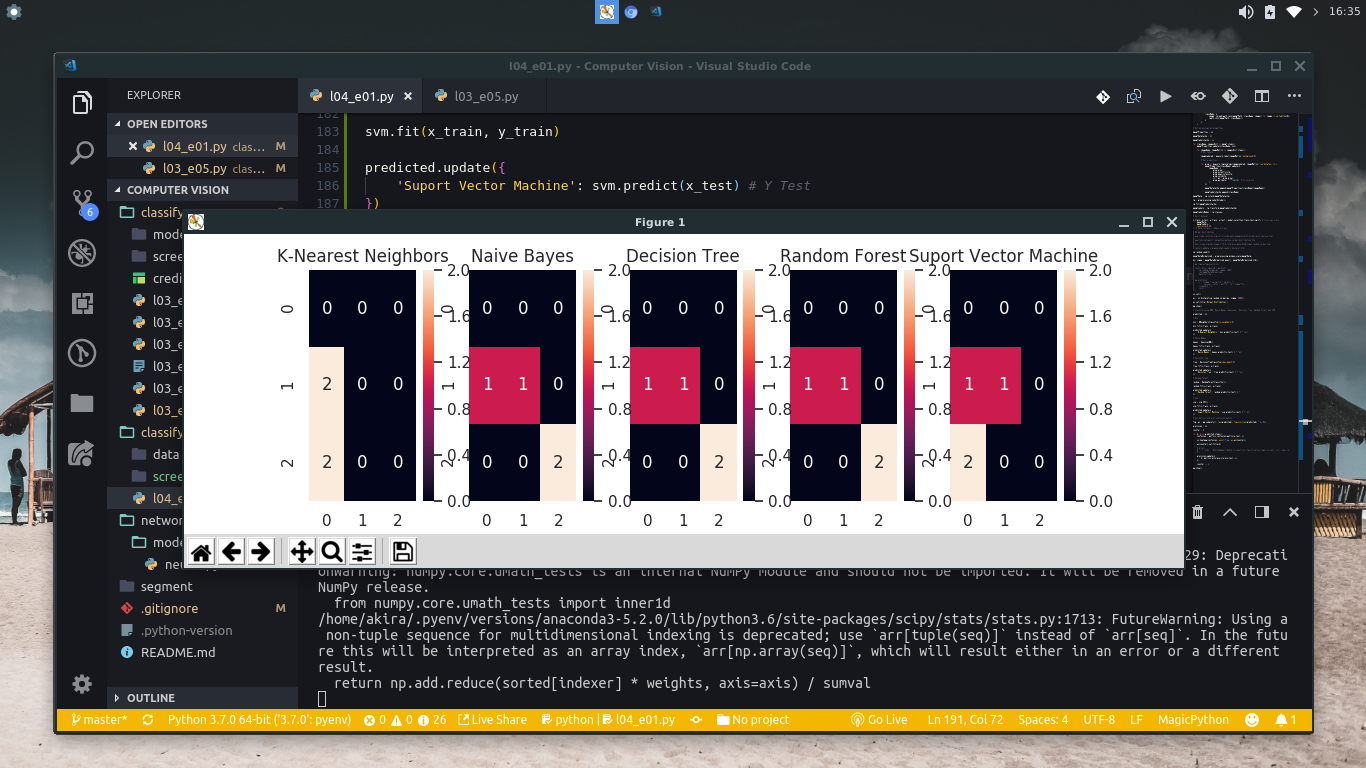
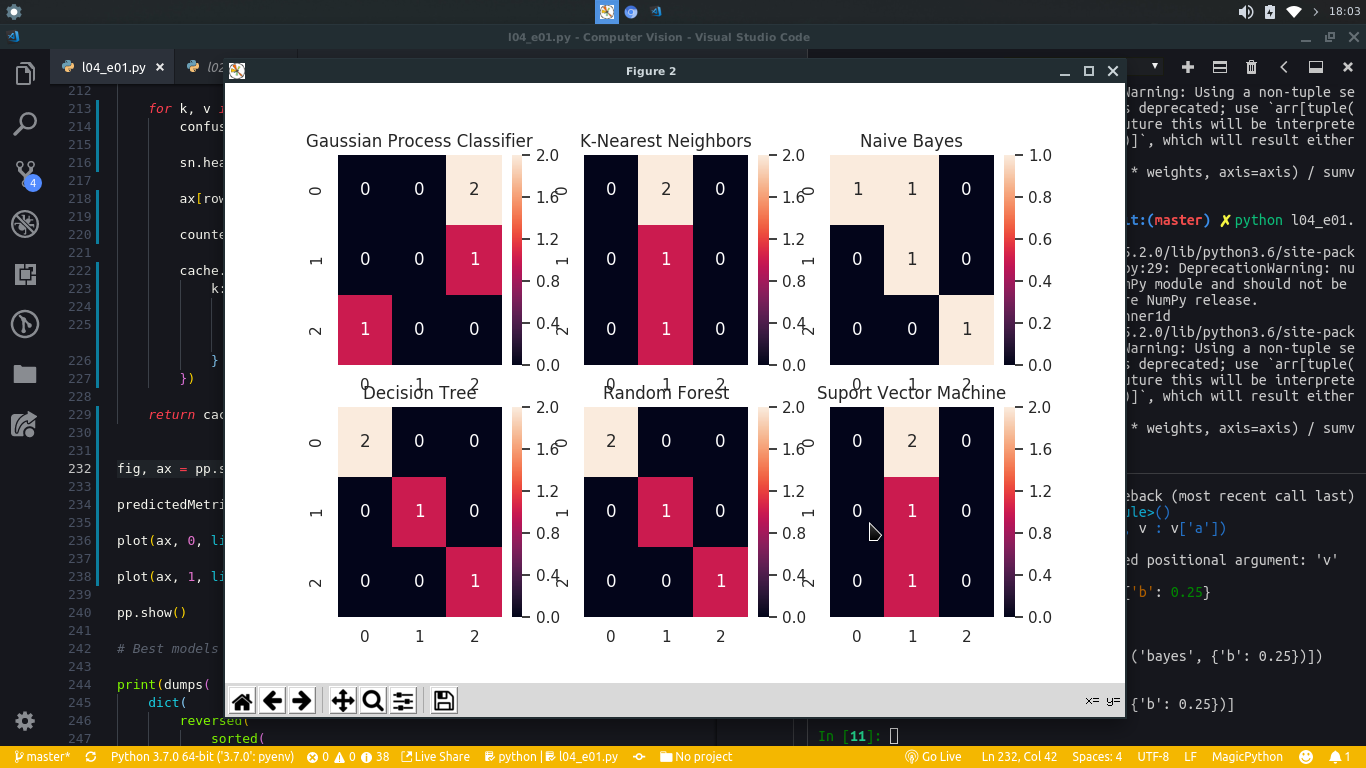
Save dataset and plot in different lines

diff --git a/classify_images/l04_e01.py b/classify_images/l04_e01.py
@@ -26,6 +26,10 @@ from sklearn.tree import DecisionTreeClassifier
 
 from sklearn.ensemble import RandomForestClassifier
 
+from sklearn.gaussian_process import GaussianProcessClassifier
+
+from sklearn.gaussian_process.kernels import RBF
+
 from json import dumps
 
 # Load M Peg 7
@@ -68,8 +72,7 @@ for className, imagesDict in mpeg7.items():
                     prop.eccentricity,
                     prop.mean_intensity,
                     prop.solidity,
-                    (4 * pi * prop.area) /
-                    prop.perimeter ** float(2)  # Circularity
+                    (4 * pi * prop.area) / prop.perimeter ** float(2)  # Circularity
                 ]
             })
 
@@ -79,6 +82,8 @@ for className, imagesDict in mpeg7.items():
 
 mpeg7Data = np.vstack(mpeg7DataCache)
 
+
+
 lp = preprocessing.LabelEncoder()
 
 lp.fit(mpeg7LabelsCache)
@@ -87,9 +92,19 @@ mpeg7Labels = lp.transform(mpeg7LabelsCache)
 
 mpeg7LabelsNames = lp.classes_
 
+# Save dataset
+
+np.savetxt(
+    'mpeg7.txt',
+    np.c_[mpeg7Data.copy(), mpeg7Labels],
+    delimiter=',',
+    fmt= '%10.3f',
+    header='Area, eccentricity, mean_intensity, solidity, circularity, label'
+)
+
 # Split dataset
 
-x_train, x_test, y_train, y_test = model_selection.train_test_split( # Cross_val_score
+x_train, x_test, y_train, y_test = model_selection.train_test_split(  # Cross_val_score
     mpeg7Data,
     mpeg7Labels,
     test_size=0.25
@@ -98,7 +113,7 @@ x_train, x_test, y_train, y_test = model_selection.train_test_split( # Cross_val
 # Normal distribution
 #
 # www.scipy-lectures.org/intro/scipy/auto_examples/plot_normal_distribution.html
-# 
+#
 # www.tutorialspoint.com/python/python_normal_distribution.htm
 #
 # docs.scipy.org/doc/numpy-1.15.0/reference/generated/numpy.random.normal.html
@@ -138,6 +153,16 @@ ax.set_title('Normal Distribution')
 
 predicted = {}
 
+# Gaussian Process Classifier
+
+gaussian = GaussianProcessClassifier(1.0 * RBF(1.0))
+
+gaussian.fit(x_train, y_train)
+
+predicted.update({
+    'Gaussian Process Classifier': gaussian.predict(x_test)  # Y test
+})
+
 # Knn
 
 knn = KNeighborsClassifier(n_neighbors=8)
@@ -145,7 +170,7 @@ knn = KNeighborsClassifier(n_neighbors=8)
 knn.fit(x_train, y_train)
 
 predicted.update({
-    'K-Nearest Neighbors': knn.predict(x_test) # Y test
+    'K-Nearest Neighbors': knn.predict(x_test)  # Y test
 })
 
 # Naive Bayes
@@ -155,7 +180,7 @@ bayes = GaussianNB()
 bayes.fit(x_train, y_train)
 
 predicted.update({
-    'Naive Bayes': bayes.predict(x_test) # Y Test
+    'Naive Bayes': bayes.predict(x_test)  # Y Test
 })
 
 # Decision Tree
@@ -165,7 +190,7 @@ tree = DecisionTreeClassifier(max_depth=5)
 tree.fit(x_train, y_train)
 
 predicted.update({
-    'Decision Tree': tree.predict(x_test) # Y Test
+    'Decision Tree': tree.predict(x_test)  # Y Test
 })
 
 # Random Forest
@@ -175,7 +200,7 @@ random = RandomForestClassifier()
 random.fit(x_train, y_train)
 
 predicted.update({
-    'Random Forest': random.predict(x_test) # Y
+    'Random Forest': random.predict(x_test)  # Y
 })
 
 # Svm
@@ -185,36 +210,73 @@ svm = svm.SVC()
 svm.fit(x_train, y_train)
 
 predicted.update({
-    'Suport Vector Machine': svm.predict(x_test) # Y Test
+    'Suport Vector Machine': svm.predict(x_test)  # Y Test
 })
 
 # Get metrics and plot confusion matrix
 
-fig, ax = pp.subplots(1, len(predicted), figsize=(len(predicted) * 2, 3))
+
+def plot(ax, row, figs):
+    '''
+        Plot n figures in a specific row
+
+        Parameters
+        ----------
+
+        ax:
+            Subplot ax to plot the figures
+
+        row:
+            Row to plot the figures
+
+        figs:
+            List of figures (key, value)
+
+        Returns
+        -------
+
+        Return a list of metrics from the figures received by the function
+
+        Usage
+        -----
+
+        >>> None
+    '''
+
+    counter = 0
+
+    cache = {}
+
+    for k, v in figs:
+        confusion = metrics.confusion_matrix(y_test, v)
+
+        sn.heatmap(confusion, annot=True, ax=ax[row, counter])
+
+        ax[row, counter].set_title(k)
+
+        counter += 1
+
+        cache.update({
+            k: {
+                'accuracy': metrics.accuracy_score(y_test, v),
+                'jaccard_similarity': metrics.jaccard_similarity_score(y_test, v)
+            }
+        })
+
+    return cache
+
+
+fig, ax = pp.subplots(2, 3, figsize=(9, 6))
 
 predictedMetrics = {}
 
-counter = 0
+predictedMetrics.update(
+    plot(ax, 0, list(predicted.items())[:3])
+)
 
-for k, v in predicted.items():
-    confusion = metrics.confusion_matrix(y_test, v)
-    
-    sn.heatmap(confusion, annot=True, ax=ax[counter])
-
-    ax[counter].set_title(k)
-    
-    # print(
-    #    f'\n{k} - \033[34mReport\033[m:\n\n{metrics.classification_report(y_test, v)}', end='\n'
-    # )
-
-    predictedMetrics.update({
-        k: {
-            'accuracy_score': metrics.accuracy_score(y_test, v),
-            'jaccard_similarity_score': metrics.jaccard_similarity_score(y_test, v)
-        }
-    })
-
-    counter += 1
+predictedMetrics.update(
+    plot(ax, 1, list(predicted.items())[3:7])
+)
 
 pp.show()
 
@@ -225,7 +287,7 @@ print(dumps(
         reversed(
             sorted(
                 predictedMetrics.items(),
-                key=lambda item: item[1]['accuracy_score']
+                key=lambda item: item[1]['accuracy']
             )
         )
     ),
